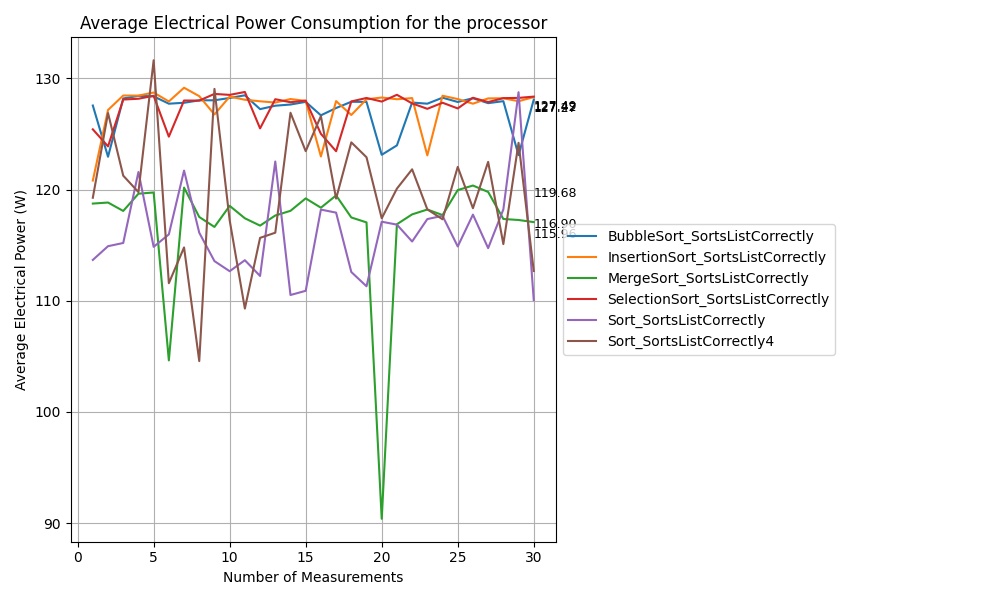
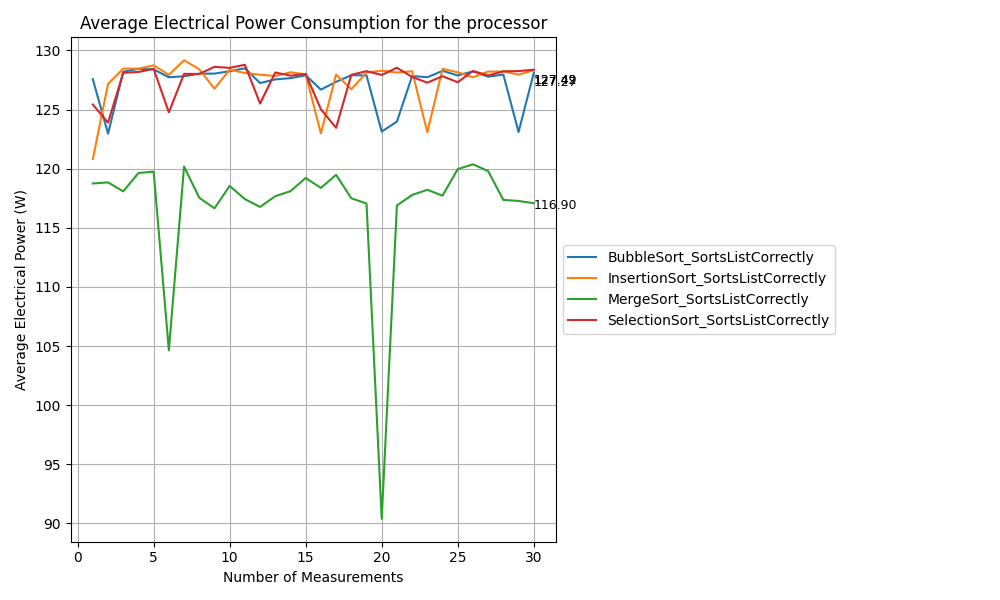
new graph

diff --git a/CpuIntensiveApp/Plot-Data/plot_results_4_metric.py b/CpuIntensiveApp/Plot-Data/plot_results_4_metric.py
@@ -43,7 +43,7 @@ else:
     df = df.drop(columns=['_start', '_stop', '_measurement', '_time'], errors='ignore')
 
     # List of test names to exclude from the graph
-    excluded_tests = ['idle_consumption', 'SleepingTest', 'Sort_SortListCorrectly', 'Sort_SortListCorrectly4']
+    excluded_tests = ['idle_consumption', 'SleepingTest', 'Sort_SortsListCorrectly', 'Sort_SortsListCorrectly4']
 
     # Group by test_name
     grouped = df.groupby('test_name')
